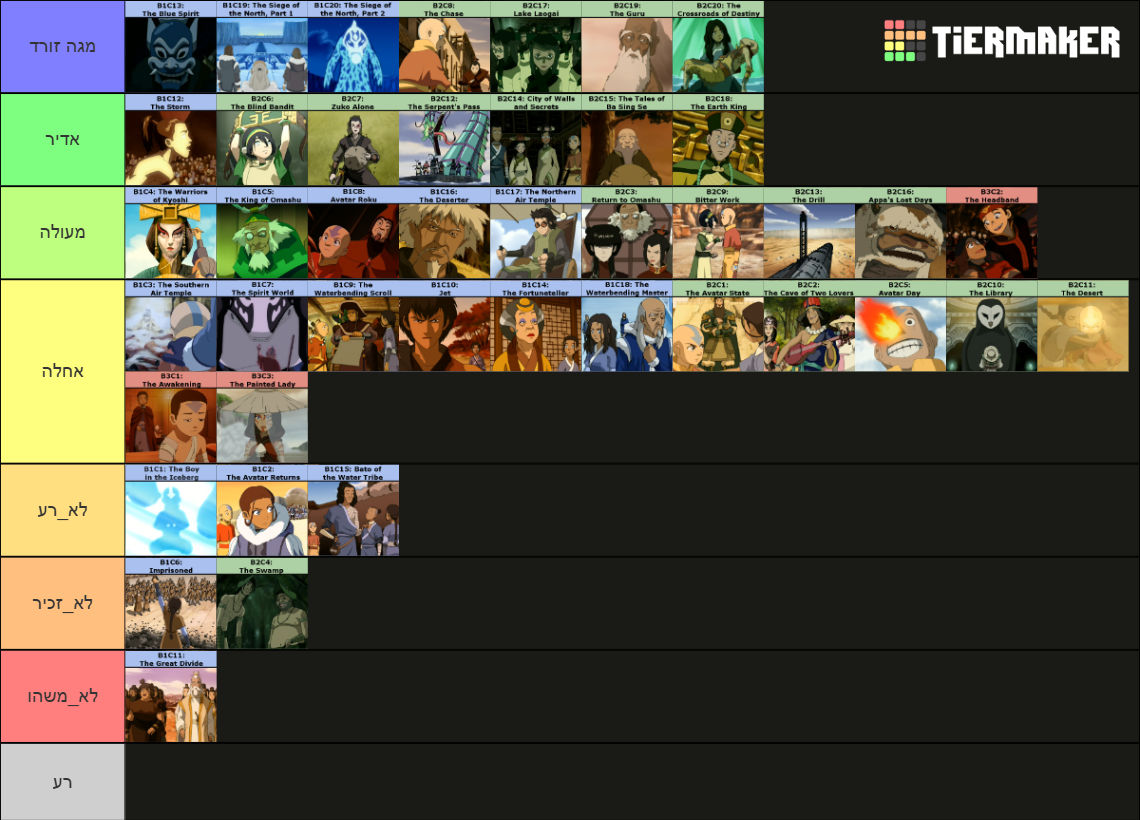
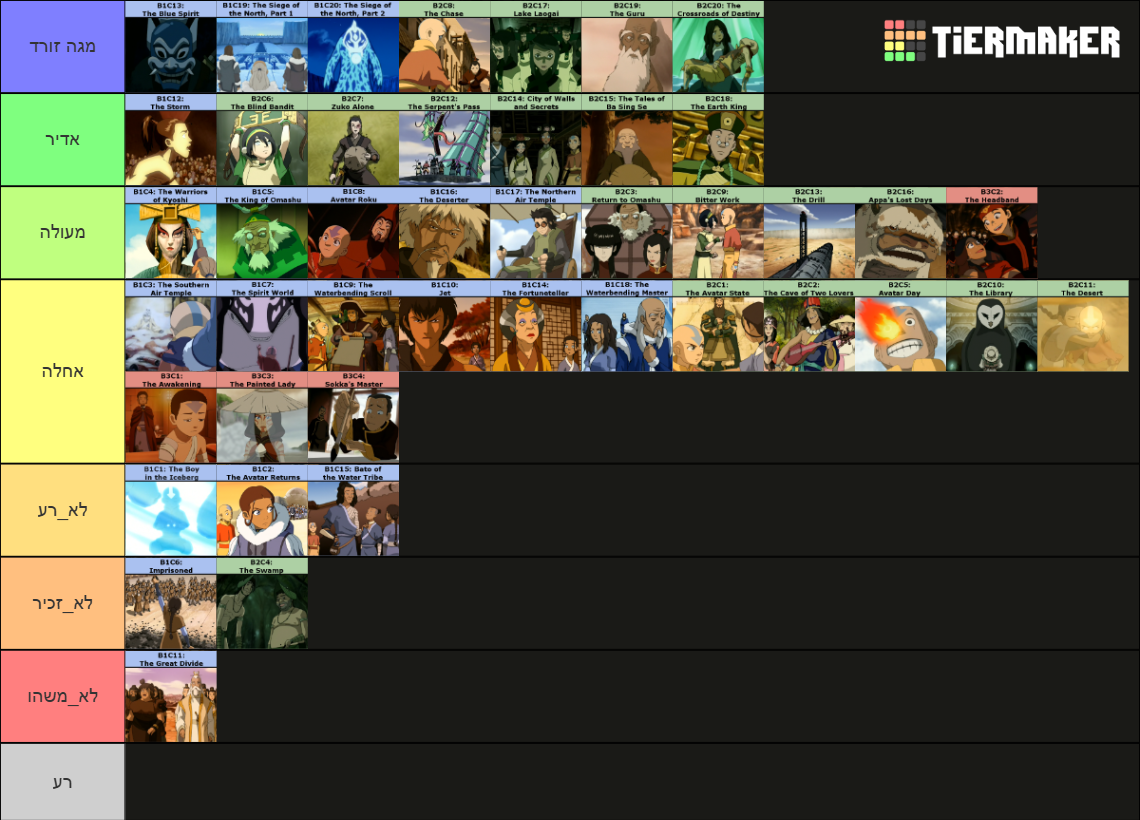
watch episode 304

Changed region(s): [[0.2456, 0.4268, 0.3684, 0.5793]]

diff --git a/עונה 3/304 - המאסטר של סוקה.md b/עונה 3/304 - המאסטר של סוקה.md
@@ -1,0 +1,27 @@
+![](images/304.png "304")
+## *תקציר:*
+- סוקה מתחיל להרגיש חסר תועלת בהשוואה לחבריו הכשפים החזקים. הוא מחליט להפוך ללוחם טוב יותר ומוצא מאסטר חרבות באומת האש, הידוע כחכם ומיומן. סוקה מרשים את המאסטר באומצו, ביצירתיותו ובחוכמתו. במהלך האימונים, הוא לומד לא רק להילחם בחרב, אלא גם להתמודד עם חוסר הביטחון שלו ולהכיר בערך שלו כחלק מהקבוצה.
+- בסיום האימונים, הוא מחשל חרב משריד מטאוריט, מה שהופך אותה לייחודית במראה השחור-מבריק שלה. כשהוא מתוודה על כך ששיקר למאסטר לגבי זהותו (התחזה לאזרח אומת האש), המאסטר מגלה שהוא ידע כל הזמן, אך רואה בו לוחם ראוי בזכות אופיו ולא מוצאו. הוא מעניק לסוקה את החרב ומעביר לו מסר חשוב: כוחו האמיתי של לוחם טמון באינטליגנציה ובתושייה, לא רק בכוח פיזי.
+- בזמן שסוקה במחנה האימונים, אנג, טוף וקטארה חשים היטב בהיעדרו — אין מי שירומם את מצב הרוח או יתכנן מה לעשות.
+- במקביל, איירו עובר מונטאז' אימונים בכלא.
+
+## *סיכום במשפט:*  
+אחרי שקיבלנו פרק "פוטלוס" אנחנו מקבלים פרק "קראטה קיד".
+
+## *ראוי לציון:*  
+- פרק כיפי עם רעיון טוב וביצוע מוצלח.
+- מגיע לסוקה לקבל פרק כזה, אבל זה מרגיש מעט מאוחר מדי. אם הפרק היה מגיע בעונה 2, היה לו פחות מגבלות.
+- מצד שני, אנחנו מגיעים לפרק הזה כשאנחנו מכירים הרבה יותר טוב את סוקה ושאר הדמויות, ולפרק הרבה יותר קל לבסס את זה ששאר החבורה מרגישה בהיעדרו של סוקה - אין מי שיעשה צחוקים, ואין מי שיתכנן את סדר היום ומה הם צריכים לעשות.
+- אני אוהב שהפרק שומר על אווירה קלילה, אבל מצליח להימנע מרוב ה-tropes הצפויים של הז'אנר — כמו שהמאסטר יכריח אותו לחכות שעות מחוץ לבית או יבקש ממנו לבצע מטלות.
+- סוקה מצטרף לאגודת הסתרים של השש-בש לוטוס מבלי לדעת מזה — התפתחות מאוד מעניינת ולא צפויה. אני סקרן לראות לאן זה יוביל. בהינתן תקציר הפרקים הקודמים בכלל חשבתי שהשש בש לוטוס יבריחו את איירו מהכלא.
+## *פחות התחברתי:*
+- לדעתי הפרק נותן לסוקה קצת יותר מדי קרדיט. כל המעלות שהמאסטר ציין אכן קיימות בו, אבל זה מרגיש כאילו הוא קצת מגזים עם הסופרלטיבים. סוקה עבר מעט מאוד אימוני לחימה, ובתוך יממה כבר מוכרז כעילוי. אני מבין שהרעיון הוא שתכונות האופי שלו חשובות יותר מהמיומנות, אבל זה הרגיש מואץ. עם זאת, אפשר לסלוח לסדרה בגלל מגבלת הזמן של הפרק והעלילה — אי אפשר להשקיע יותר מיומיים בהכשרת סוקה כשליקוי החמה מתקרב.
+
+## *ה-MVP של הפרק:*  
+סוקה
+
+## *עתידות:*
+בדרך לליקוי החמה סוקה ישכנע את טים אווטאר לסובב את אפה ולעוף חזרה לכיוון ההפוך כי הוא שכח את החייל שש-בש לוטוס שלו מאחור.
+
+## *דירוג הפרק:*  
+אחלה
